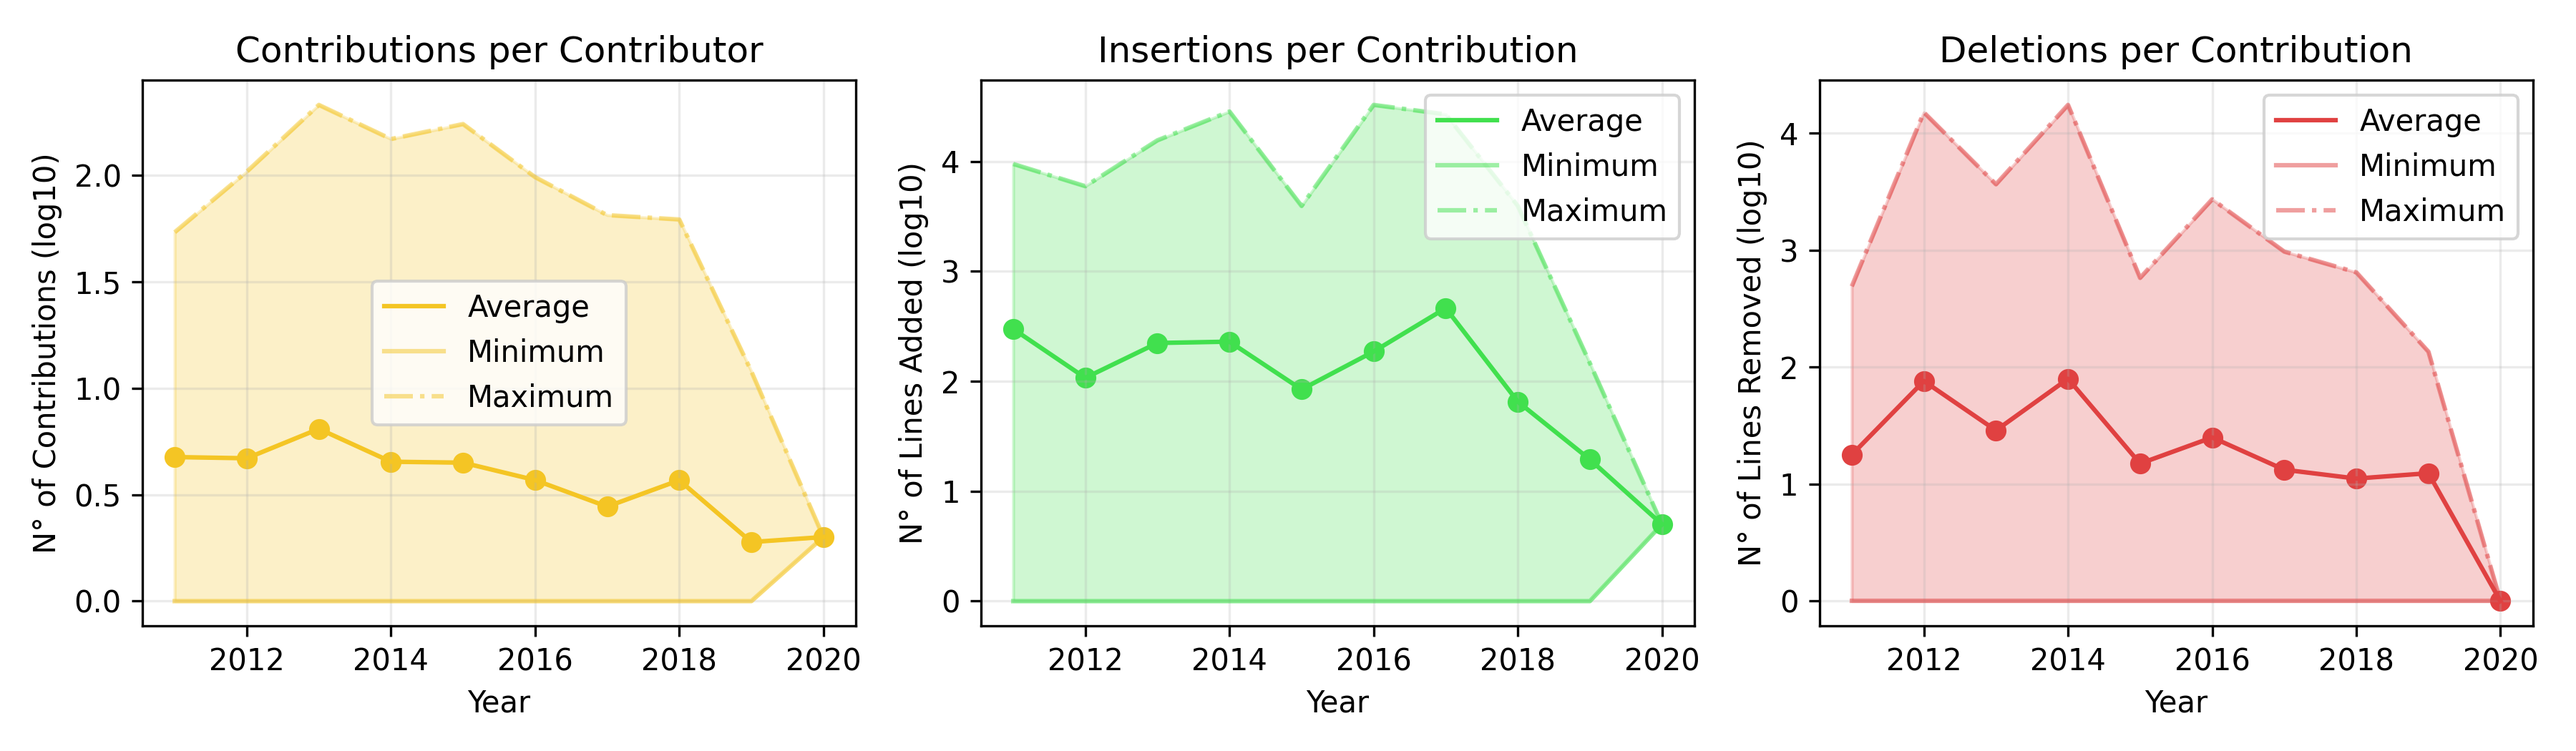
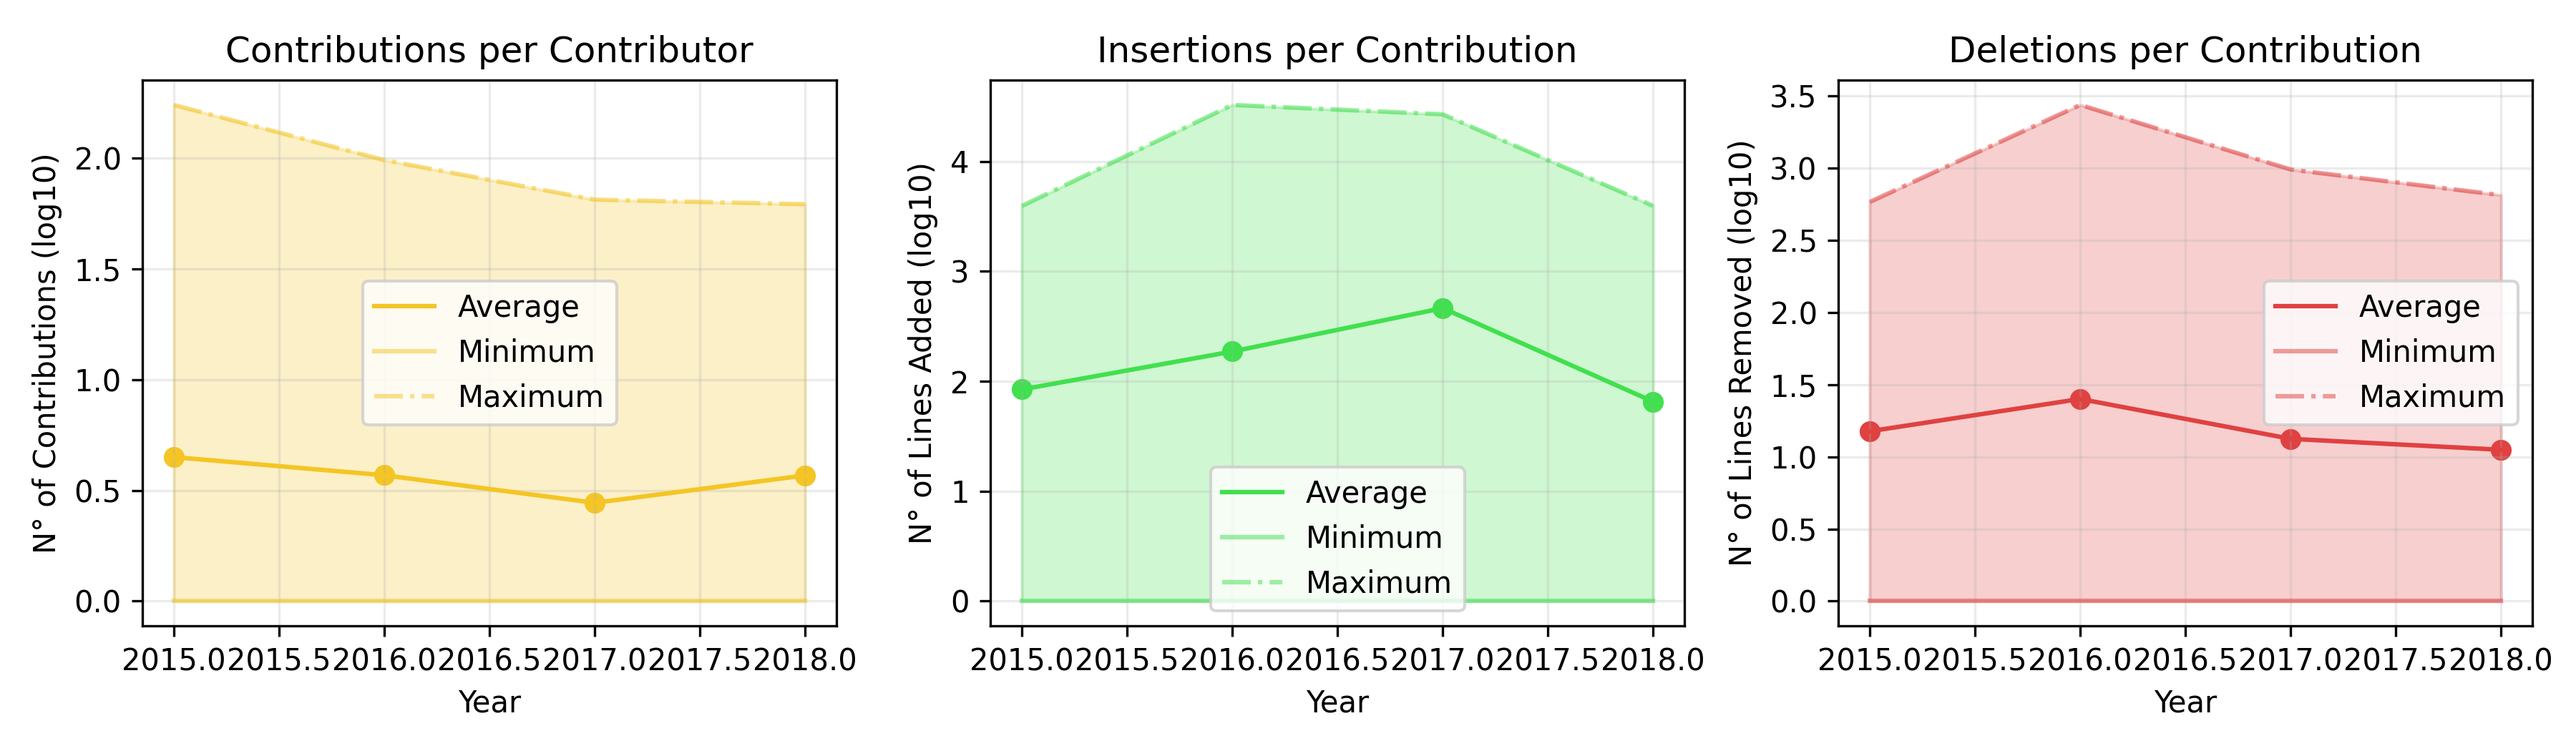
Added more command line arguments

diff --git a/src/gitruck.py b/src/gitruck.py
@@ -21,11 +21,13 @@ class Gitruck:
             shutil.rmtree(self._local_repository_path)
         self.conn = Repo.clone_from(github_url, self._local_repository_path)
 
-    def calculate_truck_factor(self):
+    def calculate_truck_factor(
+        self, since: int | None = None, until: int | None = None
+    ):
         files = self._get_code_file_paths()
         dev_name = self._generate_dev_names(self._get_git_contributors())
         contributors = list(set(dev_name.values()))
-        commits_per_file = self._get_commits_per_file(files)
+        commits_per_file = self._get_commits_per_file(files, since, until)
 
         DOA = self._calculate_DOA(files, contributors, commits_per_file, dev_name)
         normalized_DOA = self._calculate_normalized_DOA(DOA, files, contributors)
@@ -162,10 +164,14 @@ class Gitruck:
 
         return dev_name
 
-    def _get_commits_per_file(self, files: list):
+    def _get_commits_per_file(
+        self, files: list, since: int | None = None, until: int | None = None
+    ):
         commits_per_file = {}
         for file in files:
-            commits_for_file_generator = self.conn.iter_commits(paths=file)
+            commits_for_file_generator = self.conn.iter_commits(
+                since=since, until=until, paths=file
+            )
             commits_per_file[file] = list(commits_for_file_generator)
 
         return commits_per_file
@@ -235,28 +241,36 @@ class Gitruck:
 
         return normalized_DOA
 
-    def calculate_contributors_per_year(self):
-        year_begin = int(
-            self.conn.git.execute(
-                [
-                    "git",
-                    "log",
-                    "--reverse",
-                    "--pretty=format:%ad",
-                    "--date=format:%Y",
-                ]
-            ).split("\n")[0]
-        )
-        year_end = int(
-            self.conn.git.execute(
-                [
-                    "git",
-                    "log",
-                    "--pretty=format:%ad",
-                    "--date=format:%Y",
-                ]
-            ).split("\n")[0]
-        )
+    def calculate_contributors_per_year(
+        self, since: int | None = None, until: int | None = None
+    ):
+        if since:
+            year_begin = since
+        else:
+            year_begin = int(
+                self.conn.git.execute(
+                    [
+                        "git",
+                        "log",
+                        "--reverse",
+                        "--pretty=format:%ad",
+                        "--date=format:%Y",
+                    ]
+                ).split("\n")[0]
+            )
+        if until:
+            year_end = until
+        else:
+            year_end = int(
+                self.conn.git.execute(
+                    [
+                        "git",
+                        "log",
+                        "--pretty=format:%ad",
+                        "--date=format:%Y",
+                    ]
+                ).split("\n")[0]
+            )
 
         result_total = {}
         result_positive = {}
@@ -285,28 +299,36 @@ class Gitruck:
 
         return result_total, result_positive, result_negative
 
-    def calculate_avg_contributions_per_year(self):
-        year_begin = int(
-            self.conn.git.execute(
-                [
-                    "git",
-                    "log",
-                    "--reverse",
-                    "--pretty=format:%ad",
-                    "--date=format:%Y",
-                ]
-            ).split("\n")[0]
-        )
-        year_end = int(
-            self.conn.git.execute(
-                [
-                    "git",
-                    "log",
-                    "--pretty=format:%ad",
-                    "--date=format:%Y",
-                ]
-            ).split("\n")[0]
-        )
+    def calculate_avg_contributions_per_year(
+        self, since: int | None = None, until: int | None = None
+    ):
+        if since:
+            year_begin = since
+        else:
+            year_begin = int(
+                self.conn.git.execute(
+                    [
+                        "git",
+                        "log",
+                        "--reverse",
+                        "--pretty=format:%ad",
+                        "--date=format:%Y",
+                    ]
+                ).split("\n")[0]
+            )
+        if until:
+            year_end = until
+        else:
+            year_end = int(
+                self.conn.git.execute(
+                    [
+                        "git",
+                        "log",
+                        "--pretty=format:%ad",
+                        "--date=format:%Y",
+                    ]
+                ).split("\n")[0]
+            )
 
         result = {}
         for year in range(year_begin, year_end + 1):
@@ -340,28 +362,36 @@ class Gitruck:
 
         return result
 
-    def calculate_avg_lines_changed(self):
-        year_begin = int(
-            self.conn.git.execute(
-                [
-                    "git",
-                    "log",
-                    "--reverse",
-                    "--pretty=format:%ad",
-                    "--date=format:%Y",
-                ]
-            ).split("\n")[0]
-        )
-        year_end = int(
-            self.conn.git.execute(
-                [
-                    "git",
-                    "log",
-                    "--pretty=format:%ad",
-                    "--date=format:%Y",
-                ]
-            ).split("\n")[0]
-        )
+    def calculate_avg_lines_changed(
+        self, since: int | None = None, until: int | None = None
+    ):
+        if since:
+            year_begin = since
+        else:
+            year_begin = int(
+                self.conn.git.execute(
+                    [
+                        "git",
+                        "log",
+                        "--reverse",
+                        "--pretty=format:%ad",
+                        "--date=format:%Y",
+                    ]
+                ).split("\n")[0]
+            )
+        if until:
+            year_end = until
+        else:
+            year_end = int(
+                self.conn.git.execute(
+                    [
+                        "git",
+                        "log",
+                        "--pretty=format:%ad",
+                        "--date=format:%Y",
+                    ]
+                ).split("\n")[0]
+            )
 
         result_insertions = {}
         result_deletions = {}

diff --git a/src/args.py b/src/args.py
@@ -1,4 +1,5 @@
 import argparse
+import datetime
 
 
 class ArgParse:
@@ -8,7 +9,27 @@ class ArgParse:
             description="Collaboration analysis tool for git repositories.",
         )
         self.parser.add_argument("repo_url")
+        self.parser.add_argument(
+            "-s",
+            "--since",
+            type=int,
+            choices=[
+                2008 + x for x in range(0, datetime.datetime.now().year - 2008 + 1)
+            ],
+        )
+        self.parser.add_argument(
+            "-u",
+            "--until",
+            type=int,
+            choices=[
+                2008 + x for x in range(0, datetime.datetime.now().year - 2008 + 1)
+            ],
+        )
 
     def get_url(self):
         args = self.parser.parse_args()
         return args.repo_url
+
+    def get_time_period(self):
+        args = self.parser.parse_args()
+        return args.since, args.until

diff --git a/src/__main__.py b/src/__main__.py
@@ -5,16 +5,17 @@ from .gitruck import Gitruck
 # Parses CLI arguments
 args = ArgParse()
 git_url = args.get_url()
+since, until = args.get_time_period()
 
 # Executes all operations
 gitruck = Gitruck()
 gitruck.load_repository_locally(args.get_url())
 truck_factor, top_contributors = gitruck.calculate_truck_factor()
 contributors_total, contributors_positive, contributors_negative = (
-    gitruck.calculate_contributors_per_year()
+    gitruck.calculate_contributors_per_year(since, until)
 )
-contributions = gitruck.calculate_avg_contributions_per_year()
-insertions, deletions = gitruck.calculate_avg_lines_changed()
+contributions = gitruck.calculate_avg_contributions_per_year(since, until)
+insertions, deletions = gitruck.calculate_avg_lines_changed(since, until)
 
 # Creates the visualization
 html = Html()
